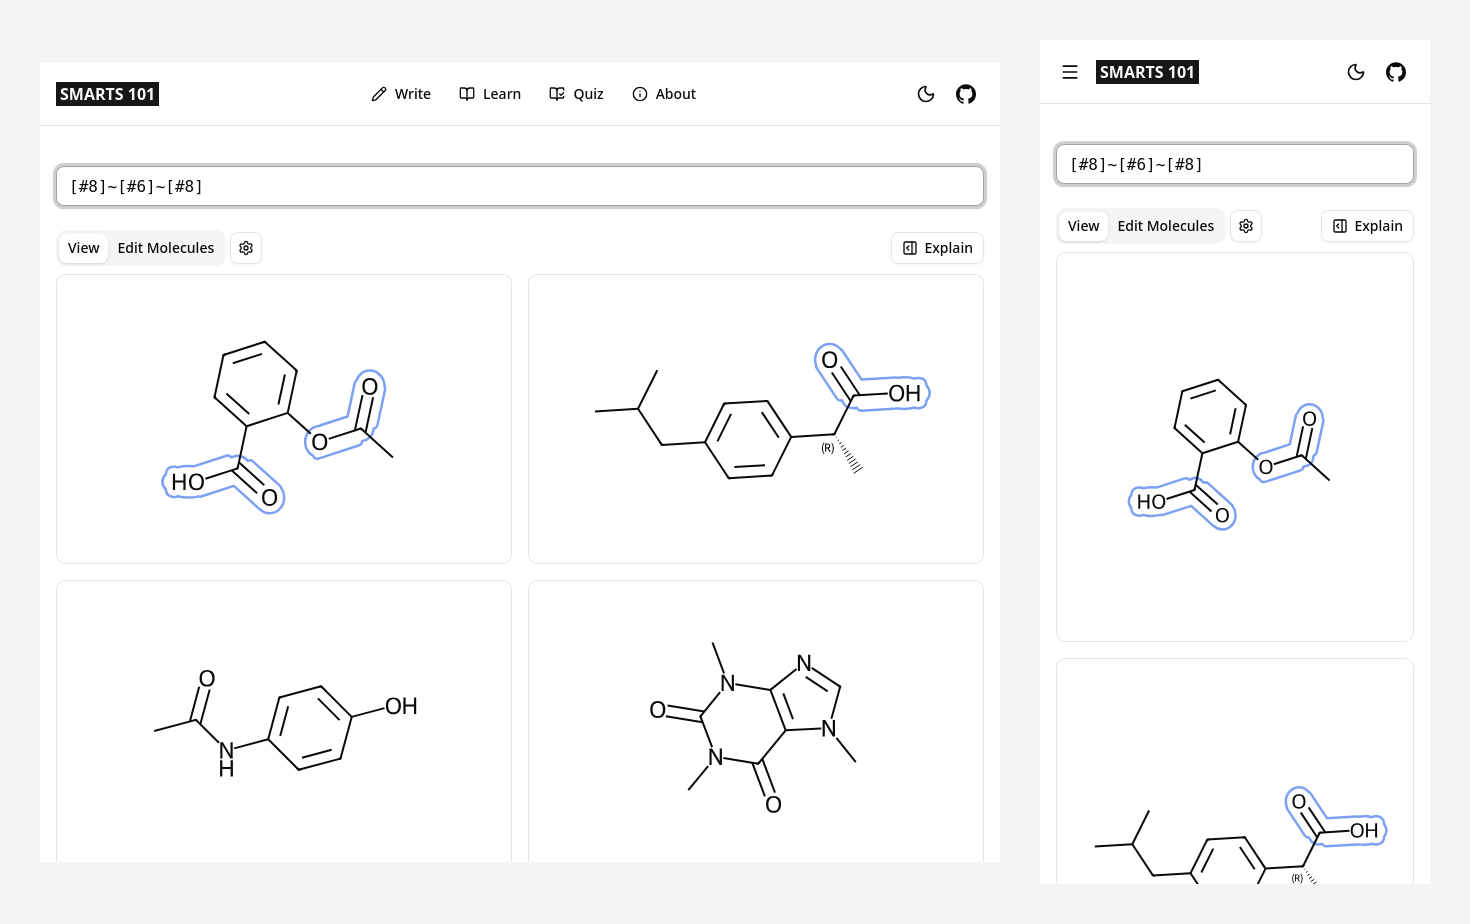
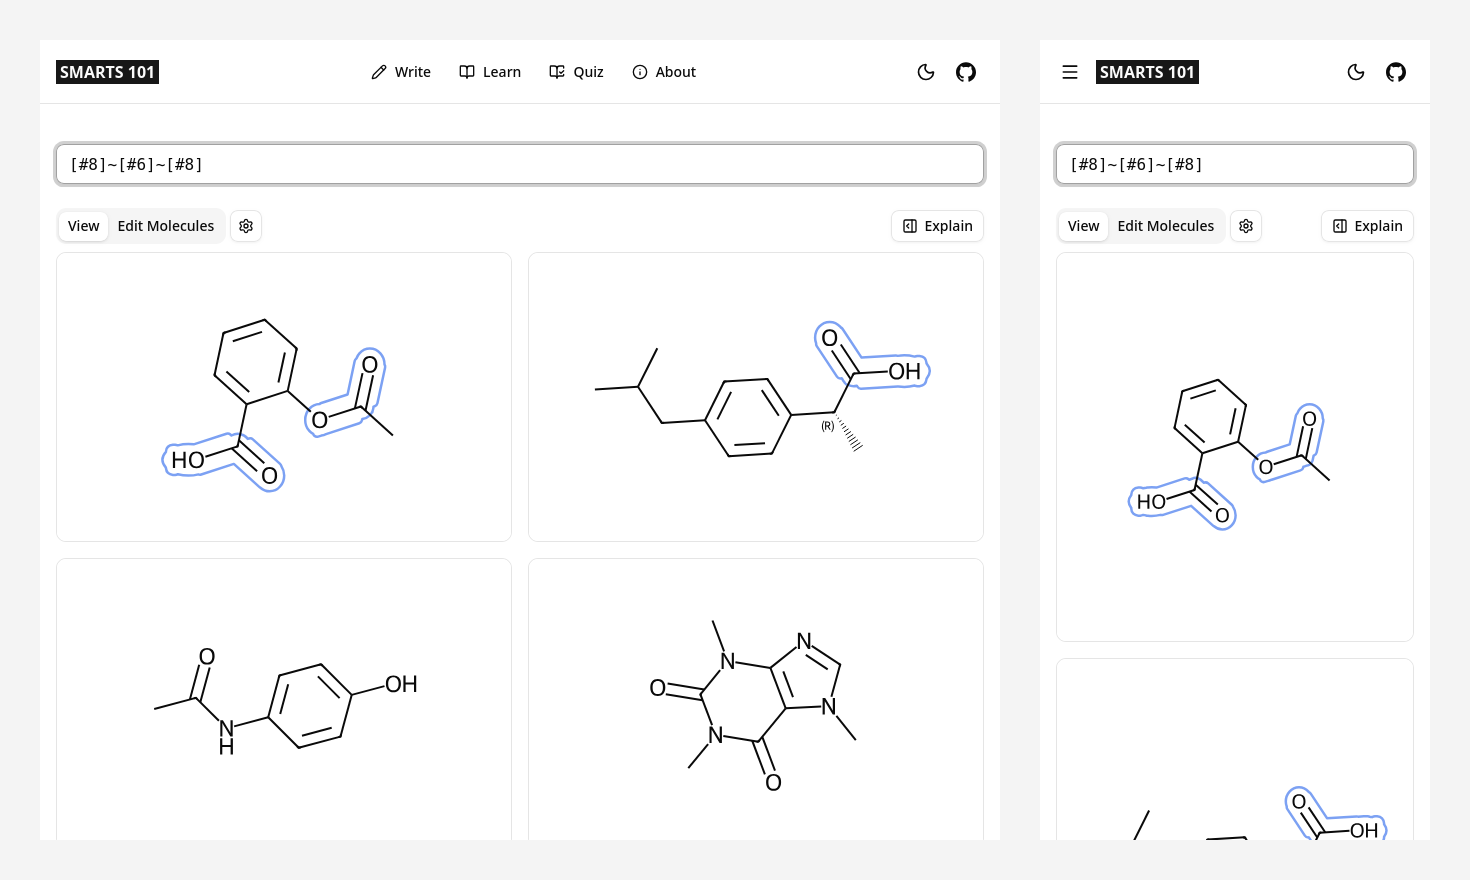
Fixed mobile screenshot height, updated hero screenshot.

diff --git a/e2e/screenshot.spec.js b/e2e/screenshot.spec.js
@@ -5,7 +5,7 @@ const OUT_DIR = 'static/screenshots';
 
 const CONFIGS = {
 	desktop: { width: 960, height: 800, columns: '2' },
-	mobile: { width: 390, height: 844, columns: '1' },
+	mobile: { width: 390, height: 800, columns: '1' },
 };
 
 /**
